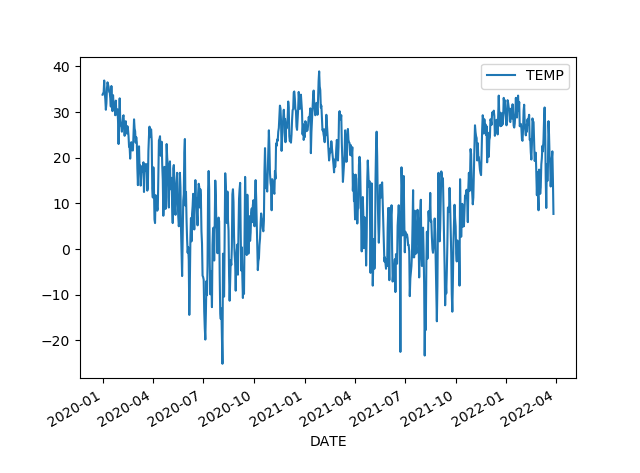
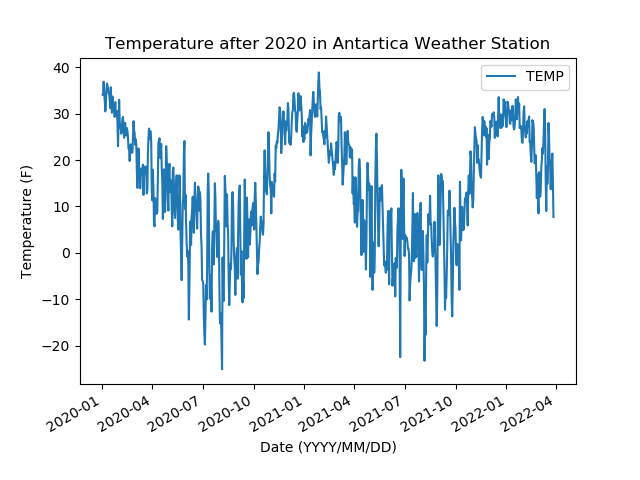
added Axes to graphs

diff --git a/code/graph.py b/code/graph.py
@@ -16,6 +16,10 @@ def main():
     directories = os.listdir(inputFolder)
     minDate = getDate('2020-01-01')
     
+    
+    
+    # plt.set_yla5l("Date (after 2020)")
+    
     for station in directories:
         
         path = os.path.join(inputFolder, station)
@@ -23,11 +27,12 @@ def main():
         df = pd.read_csv(path)
         
         df["DATE"] = pd.to_datetime(df["DATE"], format='%Y-%m-%d')
-        # df = df[(df['DATE'] > minDate)]
-        df = df[(df['DATE'].month == 3)]
+        df = df[(df['DATE'] > minDate)]
+        # df = df[(df['DATE'].month == 3)]
         # df.set_index(['DATE'],inplace=True)
-        df.plot(x = "DATE", y = "TEMP")
-        
+        ax = df.plot(x = "DATE", y = "TEMP", title = "Temperature after 2020 in Antartica Weather Station")
+        ax.set_xlabel("Date (YYYY/MM/DD)")
+        ax.set_ylabel("Temperature (F)")
         
         # a = input()
         
@@ -38,6 +43,7 @@ def main():
         # df.to_csv(path)
             
     # print(outliers)
+    
     plt.show()
             
     return 0
